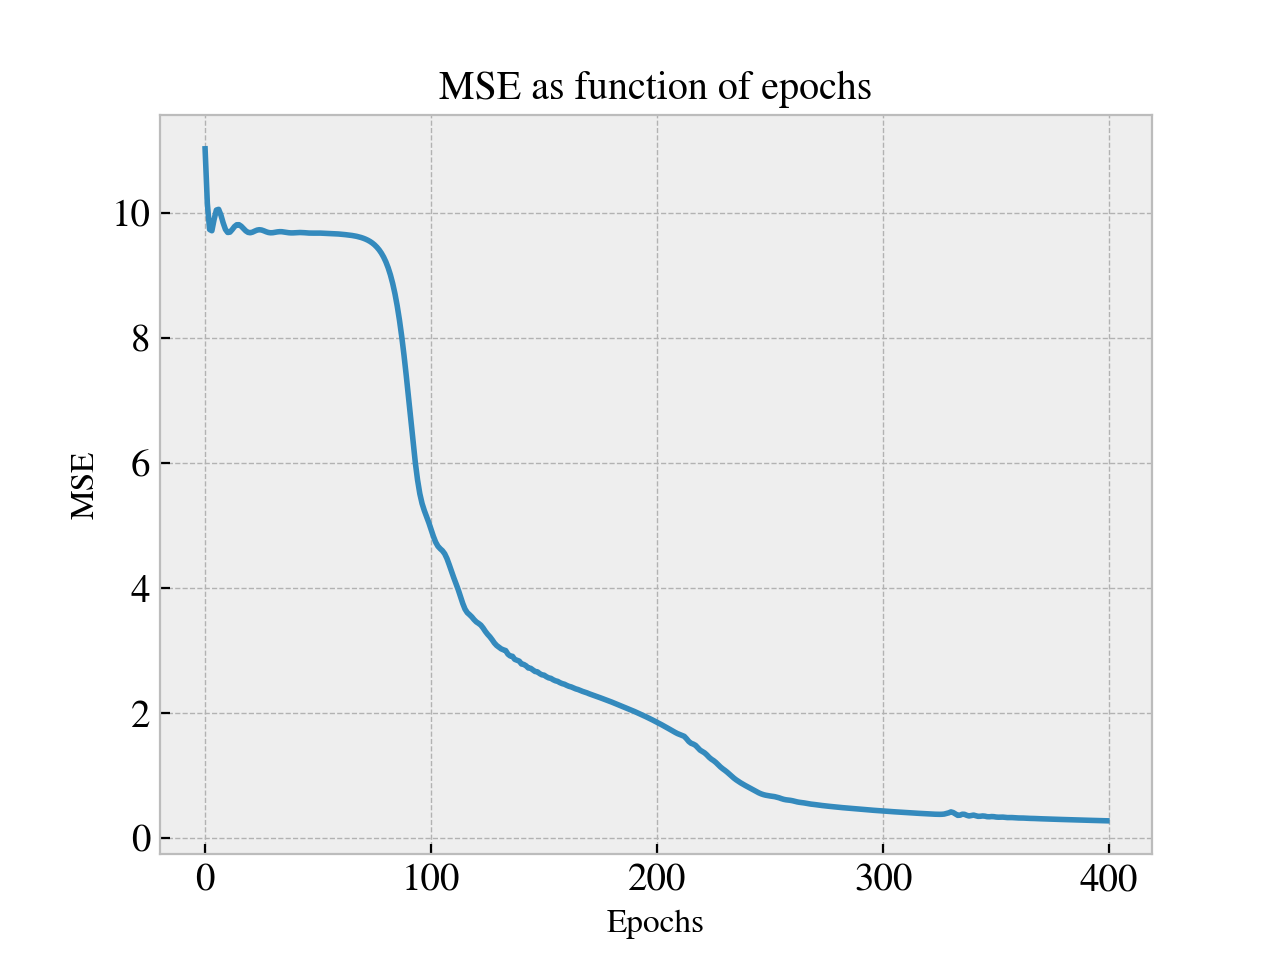
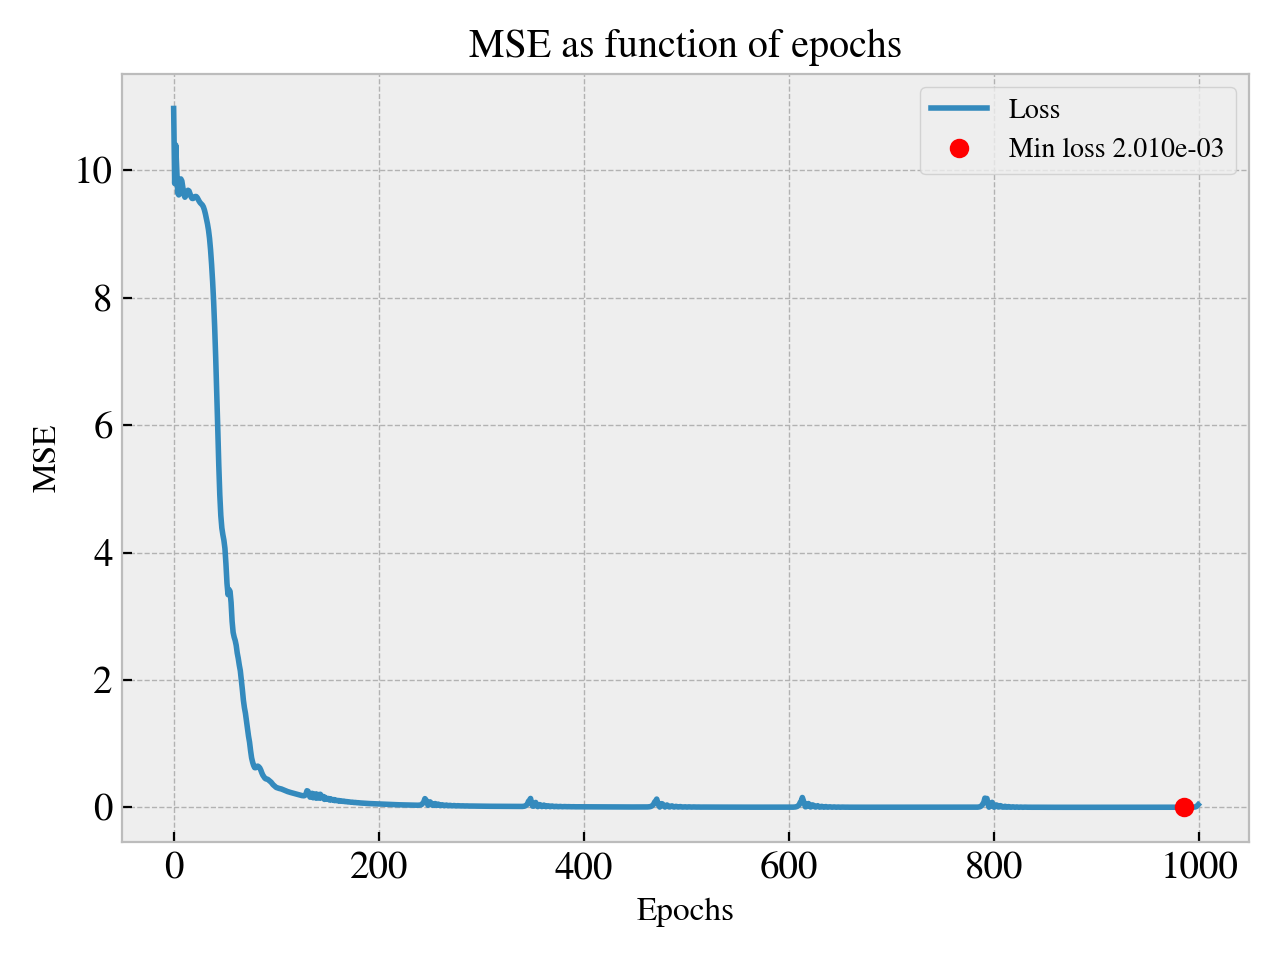
h

diff --git a/Project 3/code/ML_PDE_solver.py b/Project 3/code/ML_PDE_solver.py
@@ -61,6 +61,7 @@ class NeuralNetworkPDE:
         try:
             tvals = tqdm(range(self.num_epochs))
             for epoch in tvals:
+
                 # Calculate loss and gradient of loss.
                 loss_value, grads = self.grad(model)
                 # Update parameters in network.
@@ -150,7 +151,7 @@ if __name__ == "__main__":
     dt = 0.01
     lr = 5e-2
 
-    epochs = 1e4
+    epochs = 1e3
     x = np.linspace(0, L, int(L / dx))
     t = np.linspace(0, T, int(T / dt))
 
@@ -160,26 +161,26 @@ if __name__ == "__main__":
         loss = ML.train()
         u_complete = ML()
 
-    ML.save_model(f"{epochs:.e}epoch_sigmoid")
+    ML.save_model(f"{epochs:e}epoch_sigmoid")
     #ML.load_model("100000epoch_sigmoid")
     #u_complete = ML()
 
     u_complete = np.asarray(u_complete)
 
-    #loss_plot(loss)
+    loss_plot(loss)
 
     # Run animation against exact solution
 
-    dt = 0.1 * 0.5 * dx ** 2
-    ESS = ES.ExplicitSolver(I, L, T, dx, dt, 0, 0)
-    solution = ESS.run_simulation()
+    #dt = 0.1 * 0.5 * dx ** 2
+    #ESS = ES.ExplicitSolver(I, L, T, dx, dt, 0, 0)
+    #solution = ESS.run_simulation()
     #ESS.plot_comparison("Explicit solver", title_extension=f": dx = {dx}")
 
-    ESS.rel_err_plot("Explicit ", t, other_data=u_complete, other_name="NN")
+    #ESS.rel_err_plot("Explicit ", t, other_data=u_complete, other_name="NN")
 
     # Animate
-    ESS.u_complete = u_complete
-    ESS.animator("Neural network")
+    #ESS.u_complete = u_complete
+    #ESS.animator("Neural network")
     #ESS.plot_comparison("Explicit solver", title_extension=f": dx = {dx}")
 
     # Save

diff --git a/Project 3/code/timer.py b/Project 3/code/timer.py
@@ -1,4 +1,4 @@
-from ML_PDE_solver import NeuralNetworkPDE
+from ML_PDE_solver import *
 import tensorflow as tf
 import ExplicitSolver as ES
 import numpy as np
@@ -14,7 +14,7 @@ if __name__ == "__main__":
     dt1 = dt * 2 / dx
     x = np.linspace(0, L, int(L / dx))
     t = np.linspace(0, T, int(T / dt1))
-    epochs = 150
+    epochs = 1e3
     lr = 5e-2
     c = 0
     d = 0
@@ -28,11 +28,13 @@ if __name__ == "__main__":
     tic1 = time.perf_counter()
     # Place tensors on the CPU
     with tf.device('/CPU:0'):
-        ML = NeuralNetworkPDE(x, t, epochs, I, lr)
+        ML = NeuralNetworkPDE(x, t, int(epochs), I, lr)
         loss = ML.train()
         u_complete = ML()
     toc1 = time.perf_counter()
     print("Runtime ML: {:.2f}s".format(toc1 - tic1))
+
+    #print(ML.g_trial(ML.model, np.array([0.1]).astype("float32"), np.array([0.5]).astype("float32")).numpy())
 
 # Timing results from Mikkels mac
 # Finite: 0.12 s

diff --git a/Project 3/code/Functions.py b/Project 3/code/Functions.py
@@ -13,8 +13,8 @@ def loss_plot(loss):
         "ro",
         label=f"Min loss {loss[min_loss]:.3e}",
     )
-    plt.xlabel("Epochs")
-    plt.ylabel("MSE")
+    plt.xlabel("Epochs", fontsize=14)
+    plt.ylabel("MSE", fontsize=14)
     plt.title("MSE as function of epochs")
     plt.tight_layout(pad=1.1, w_pad=0.7, h_pad=0.2)
     plt.legend()
